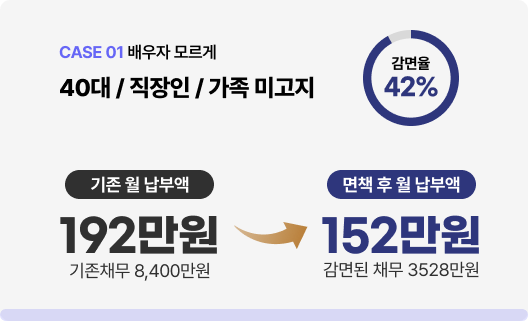
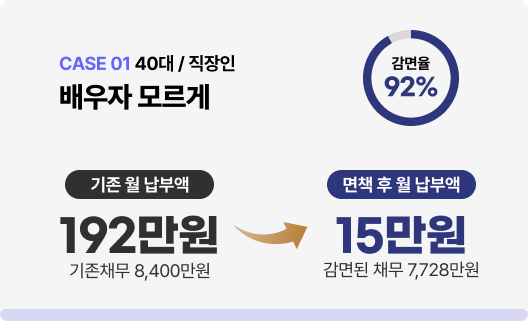
사례 비교 카드 이미지 4종 교체 + alt 수치 갱신(감면율 92/88/90/80%)

diff --git a/index.html b/index.html
@@ -169,10 +169,10 @@
     <div class="max-w-[1200px] mx-auto px-6 text-center">
       <h2 class="[font-family:var(--font-head)] font-bold text-[clamp(27px,3.6vw,40px)] leading-[1.34] tracking-[-0.02em] mb-6">얼마나 달라질 수 있는지,<br />사례로 먼저 확인하세요.</h2>
       <div class="grid grid-cols-2 gap-[18px] mt-12 text-left max-sm:grid-cols-1 max-w-[1000px] mx-auto">
-        <img src="/images/ccard-1.png" alt="CASE 01 배우자 모르게 — 40대 직장인, 가족 미고지. 감면율 42%. 기존 월 납부액 192만원(기존채무 8,400만원) → 면책 후 월 납부액 152만원(감면된 채무 3,528만원)" class="block w-full h-auto rounded-2xl" />
-        <img src="/images/ccard-2.png" alt="CASE 02 주택경매없이 — 40대 주택보유 자영업. 감면율 65%. 기존 월 납부액 248만원(기존채무 1억 1,200만원) → 면책 후 월 납부액 112만원(감면된 채무 7,280만원)" class="block w-full h-auto rounded-2xl" />
-        <img src="/images/ccard-3.png" alt="CASE 03 재회생 — 50대 가장, 면책이력. 감면율 48%. 기존 월 납부액 141만원(기존채무 6,200만원) → 면책 후 월 납부액 92만원(감면된 채무 2,976만원)" class="block w-full h-auto rounded-2xl" />
-        <img src="/images/ccard-4.png" alt="CASE 04 재회생 — 30대 프리랜서, 투자손실. 감면율 31%. 기존 월 납부액 132만원(기존채무 5,800만원) → 면책 후 월 납부액 85만원(감면된 채무 1,798만원)" class="block w-full h-auto rounded-2xl" />
+        <img src="/images/ccard-1.png" alt="CASE 01 배우자 모르게 — 40대 직장인. 감면율 92%. 기존 월 납부액 192만원(기존채무 8,400만원) → 면책 후 월 납부액 15만원(감면된 채무 7,728만원)" class="block w-full h-auto rounded-2xl" />
+        <img src="/images/ccard-2.png" alt="CASE 02 주택경매없이 — 40대 자영업자. 감면율 88%. 기존 월 납부액 248만원(기존채무 1억 1,200만원) → 면책 후 월 납부액 30만원(감면된 채무 9,856만원)" class="block w-full h-auto rounded-2xl" />
+        <img src="/images/ccard-3.png" alt="CASE 03 면책이력 — 50대 가장. 감면율 90%. 기존 월 납부액 141만원(기존채무 6,200만원) → 면책 후 월 납부액 14만원(감면된 채무 5,580만원)" class="block w-full h-auto rounded-2xl" />
+        <img src="/images/ccard-4.png" alt="CASE 04 도박·주식·코인 — 30대 투자손실. 감면율 80%. 기존 월 납부액 132만원(기존채무 5,800만원) → 면책 후 월 납부액 26만원(감면된 채무 4,640만원)" class="block w-full h-auto rounded-2xl" />
       </div>
       <p class="mt-[60px] text-[12px] text-[#8b94a8] text-center">※ 위 사례는 이해를 돕기 위한 예시이며, 실제 결과는<br class="hidden max-[420px]:inline" /> 개인별 상황과 법원 판단에 따라 달라질 수 있습니다.</p>
     </div>
